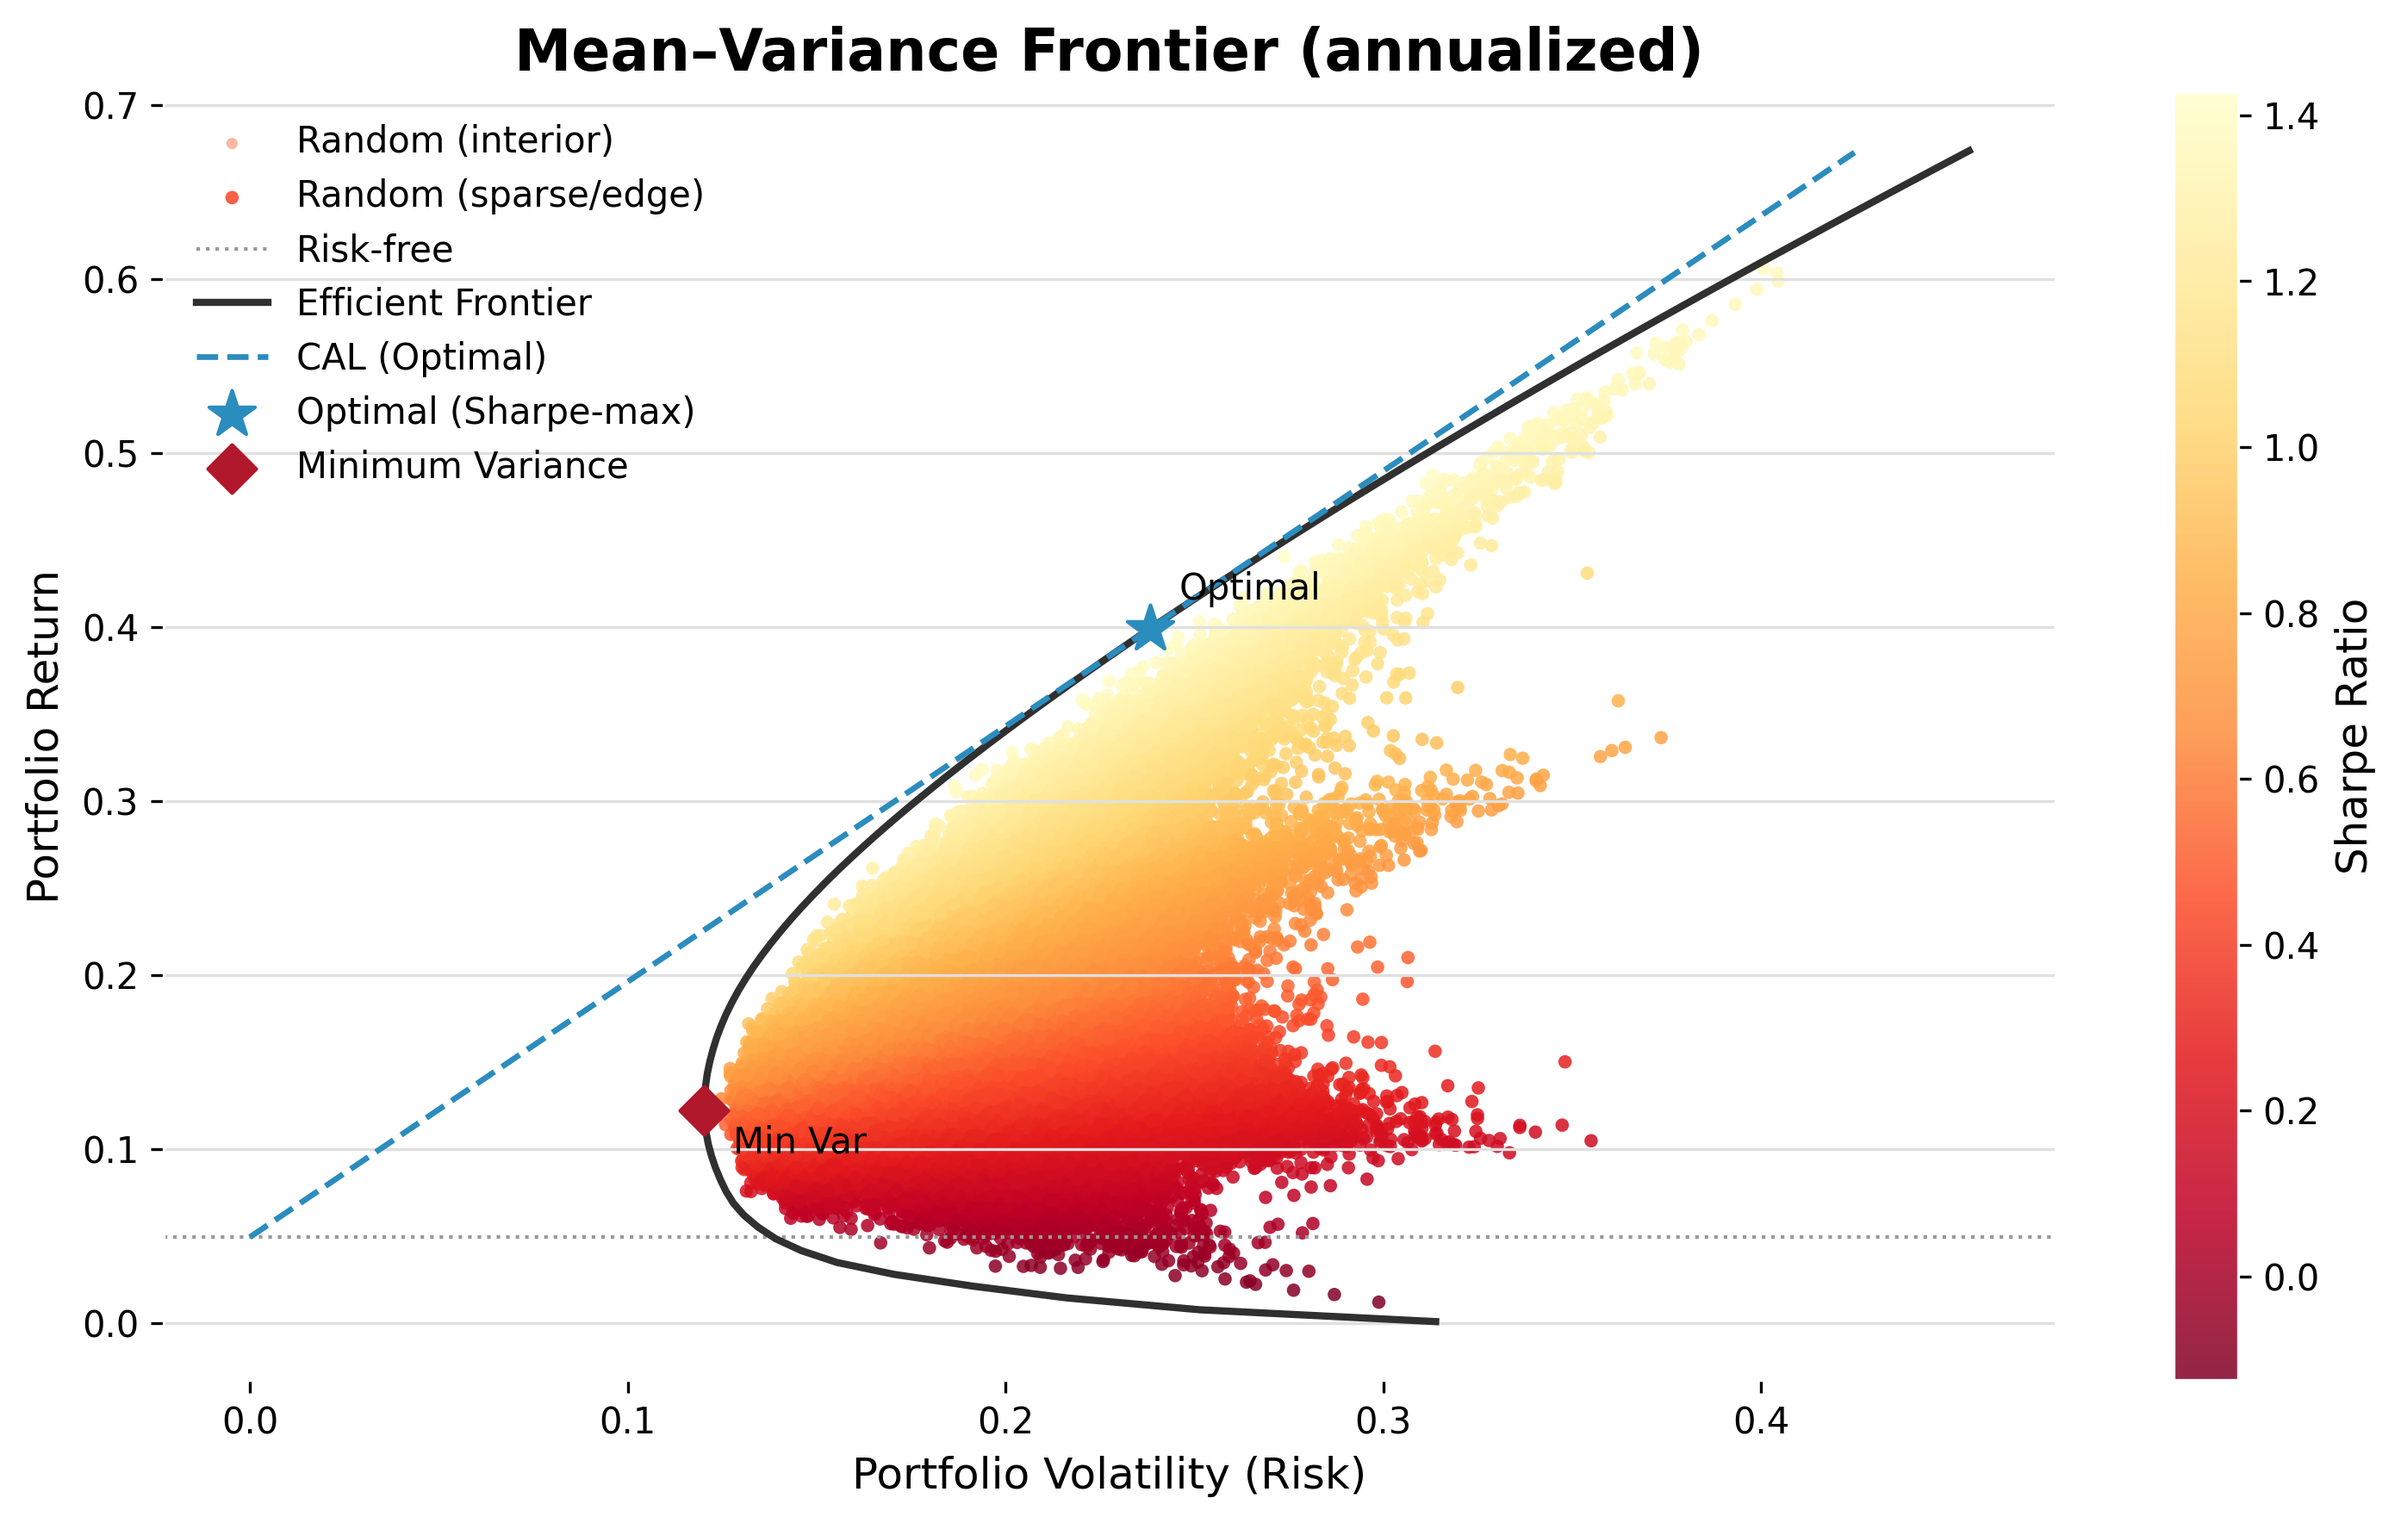
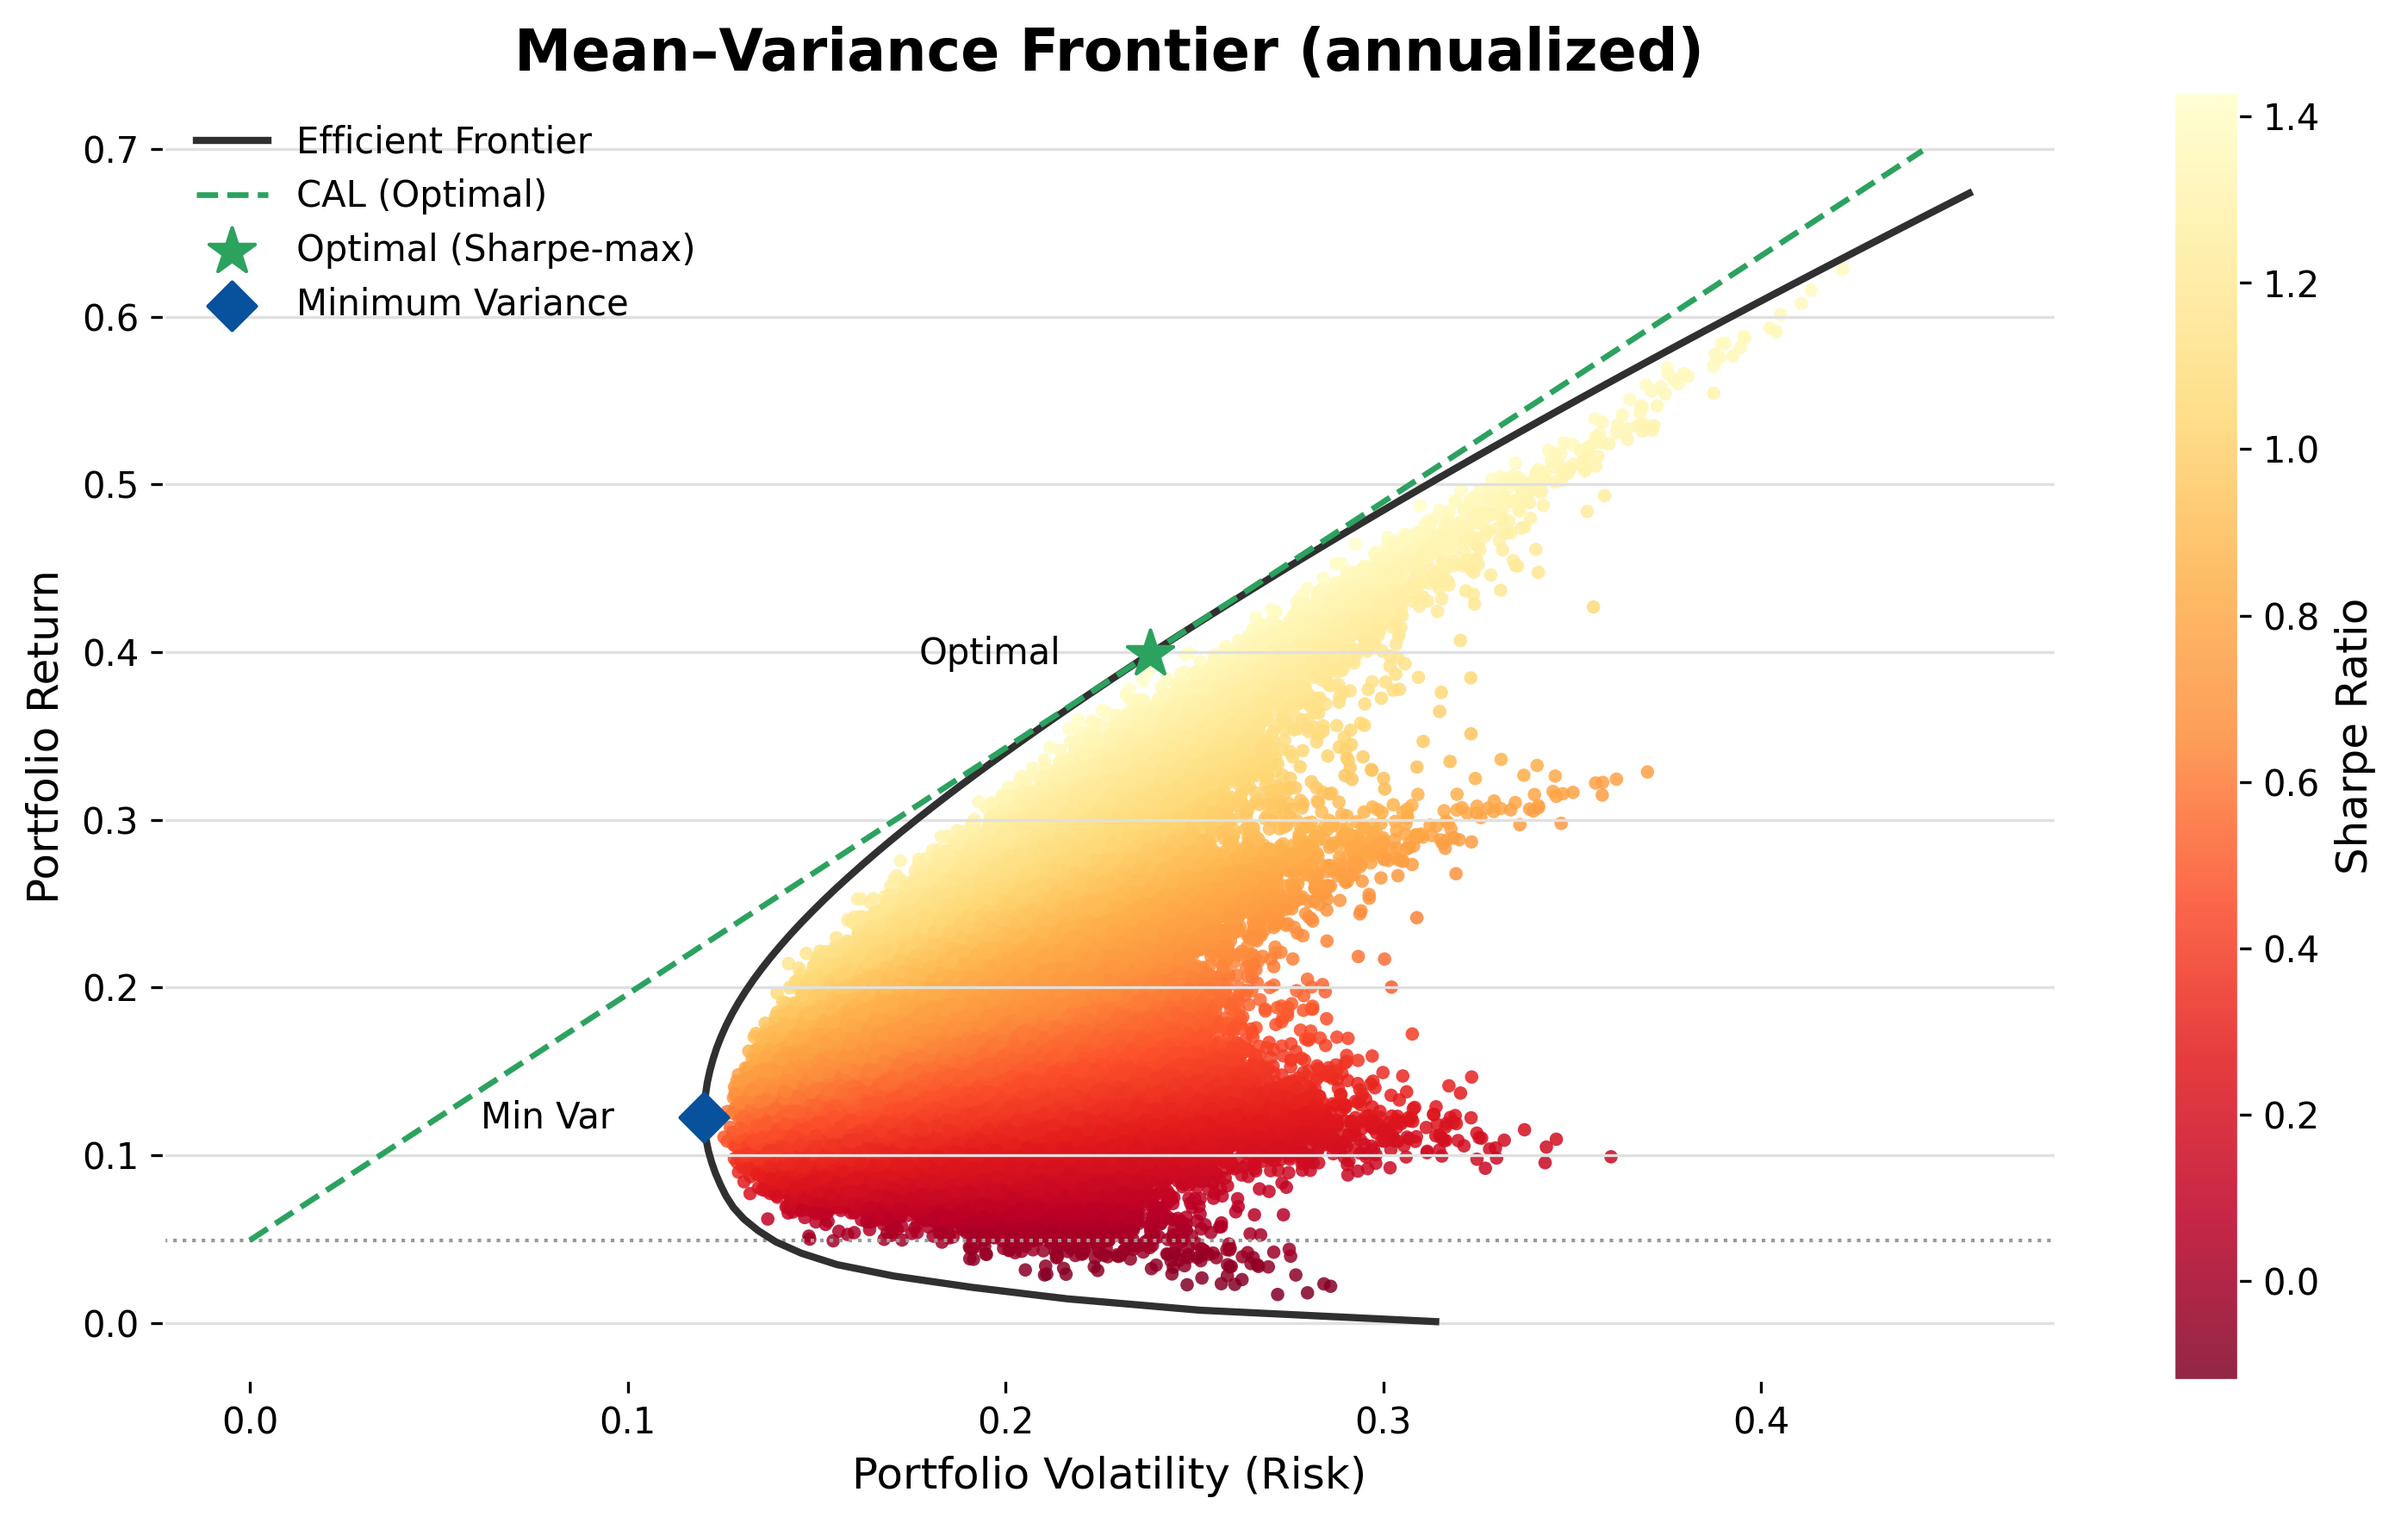
Final version

diff --git a/plots.py b/plots.py
@@ -1,5 +1,3 @@
-# plotting.py
-
 import matplotlib.pyplot as plt
 import numpy as np
 import os
@@ -35,10 +33,9 @@ def plot_mean_variance_frontier(
     filename="mean_variance_frontier.png"
 ):
     """
-    Mean-variance figure with two clouds:
-      - interior cloud (uniform Dirichlet, α=1)
-      - edge cloud (sparse Dirichlet, α<1) to visibly touch the frontier
-    Also plots exact frontier, CAL, RF, and optimal/min-var markers.
+    Mean-variance figure with two clouds (no legend entries),
+    efficient frontier curve, CAL, Optimal (green star), Min Var (blue diamond).
+    Labels appear to the left of the markers, close to the icons.
     """
     plt.figure(figsize=(10, 6))
 
@@ -48,8 +45,8 @@ def plot_mean_variance_frontier(
     sharpe_in = (R_in - rf_rate) / V_in
     sharpe_ed = (R_ed - rf_rate) / V_ed
 
-    # Interior cloud (fainter)
-    sc1 = plt.scatter(
+    # Interior cloud (no legend entry)
+    plt.scatter(
         V_in, R_in,
         c=sharpe_in,
         cmap="YlOrRd_r",
@@ -57,10 +54,10 @@ def plot_mean_variance_frontier(
         edgecolor="none",
         alpha=0.45,
         s=10,
-        label="Random (interior)"
+        label=None
     )
 
-    # Edge cloud (heavier alpha & size so it 'touches' the EF)
+    # Edge cloud (no legend entry)
     sc2 = plt.scatter(
         V_ed, R_ed,
         c=sharpe_ed,
@@ -69,35 +66,38 @@ def plot_mean_variance_frontier(
         edgecolor="none",
         alpha=0.85,
         s=14,
-        label="Random (sparse/edge)"
+        label=None
     )
 
     cbar = plt.colorbar(sc2)
     cbar.set_label("Sharpe Ratio")
 
-    # Risk-free
-    plt.axhline(rf_rate, color="#999999", linestyle=":", linewidth=1.0, label="Risk-free")
+    # Risk-free (no legend entry)
+    plt.axhline(rf_rate, color="#999999", linestyle=":", linewidth=1.0, label=None)
 
-    # Exact efficient frontier
+    # Efficient frontier (in legend)
     if ef_curve is not None and len(ef_curve[0]) > 1:
         ef_vols, ef_rets = ef_curve
         plt.plot(ef_vols, ef_rets, linewidth=2.0, linestyle="-", color="#303030", label="Efficient Frontier")
 
-    # CAL + markers
+    # CAL + Optimal
     if opt_point is not None:
         opt_vol, opt_ret = opt_point
         if opt_vol > 0 and np.isfinite(opt_ret):
             x = np.linspace(0, max(np.max(V_in), np.max(V_ed), opt_vol) * 1.05, 200)
             slope = (opt_ret - rf_rate) / opt_vol
             y = rf_rate + slope * x
-            plt.plot(x, y, linestyle="--", linewidth=1.6, color="#2b8cbe", label="CAL (Optimal)")
-        plt.scatter([opt_vol], [opt_ret], marker="*", s=180, zorder=5, color="#2b8cbe", label="Optimal (Sharpe-max)")
-        plt.annotate("Optimal", (opt_vol, opt_ret), xytext=(8, 8), textcoords="offset points")
+            plt.plot(x, y, linestyle="--", linewidth=1.6, color="#2ca25f", label="CAL (Optimal)")
+        plt.scatter([opt_vol], [opt_ret], marker="*", s=180, zorder=5, color="#2ca25f", label="Optimal (Sharpe-max)")
+        plt.annotate("Optimal", (opt_vol, opt_ret), xytext=(-25, 0), textcoords="offset points",
+                     ha="right", va="center")
 
+    # Minimum variance (blue)
     if mv_point is not None:
         mv_vol, mv_ret = mv_point
-        plt.scatter([mv_vol], [mv_ret], marker="D", s=90, zorder=5, color="#b2182b", label="Minimum Variance")
-        plt.annotate("Min Var", (mv_vol, mv_ret), xytext=(8, -12), textcoords="offset points")
+        plt.scatter([mv_vol], [mv_ret], marker="D", s=90, zorder=5, color="#08519c", label="Minimum Variance")
+        plt.annotate("Min Var", (mv_vol, mv_ret), xytext=(-25, 0), textcoords="offset points",
+                     ha="right", va="center")
 
     plt.title("Mean–Variance Frontier (annualized)")
     plt.xlabel("Portfolio Volatility (Risk)")
@@ -109,7 +109,12 @@ def plot_mean_variance_frontier(
     plt.savefig(outpath, dpi=300, bbox_inches="tight")
     plt.show()
 
-def plot_two_asset_frontier(portfolio_volatilities_list, portfolio_returns_list, correlations, filename="two_asset_frontier.png"):
+def plot_two_asset_frontier(
+    portfolio_volatilities_list,
+    portfolio_returns_list,
+    correlations,
+    filename="two_asset_frontier.png"
+):
     plt.figure(figsize=(10, 6))
     corr_colors = ["#1a9850", "#91cf60", "#d9ef8b", "#fee08b", "#fc8d59", "#d73027"]
     for i, corr in enumerate(correlations):
